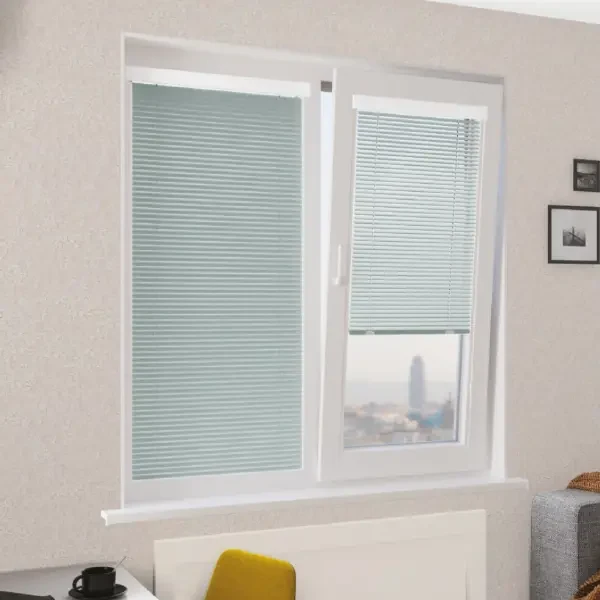
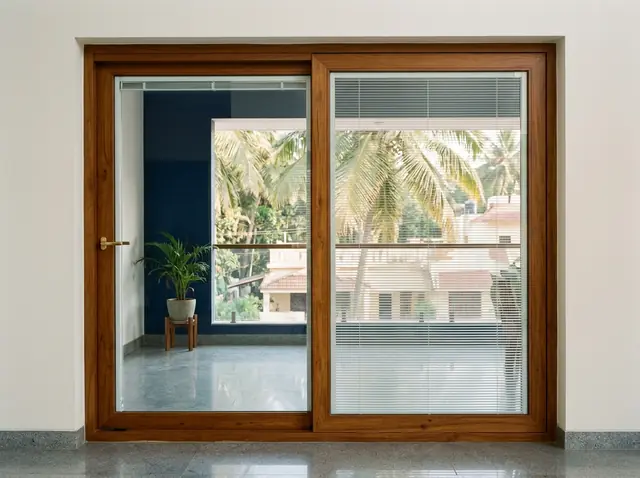
Blinds page: real pictures for insulated, measuring and the visit section
Replaces the stock-looking insulated glass picture, puts a measuring
photo behind the width/height drawing, and gives the visit section its
own evening room instead of reusing the top picture.

diff --git a/src/pages/BlindsPage.jsx b/src/pages/BlindsPage.jsx
@@ -266,7 +266,10 @@ function Measure() {
           <ul className="list-none p-0 m-0 grid sm:grid-cols-3 gap-6">{steps.map(([t, d]) => <li key={t} className="rise rail pt-3"><h3 className="font-semibold text-lg mb-1">{t}</h3><p className="text-[1rem] leading-relaxed">{d}</p></li>)}</ul>
           <p className="rise text-[1.0625rem] leading-relaxed mt-8">Your figure is only for the rough price. We measure again at your home before the final price.</p>
         </div>
-        <div className="rise lg:col-span-5 bg-white border-[3px] border-navy p-6 lg:p-10"><MeasureDiagram /></div>
+        <div className="rise lg:col-span-5 relative pb-16 sm:pb-20">
+          <Pic id="measure" alt="A tape measure, pencil and notepad on a granite window sill under a linen Roman blind" sizes="(min-width: 1024px) 40vw, 100vw" full={1376} className="block w-full aspect-[4/3] object-cover" />
+          <div className="absolute left-0 bottom-0 w-[58%] sm:w-[48%] lg:w-[58%] bg-white border-[3px] border-navy p-3 sm:p-4"><MeasureDiagram /></div>
+        </div>
       </div>
     </section>
   );
@@ -338,7 +341,7 @@ function Visit() {
   ];
   return (
     <section id="visit" className="relative bg-navy text-white">
-      <div className="absolute inset-0 pane-photo"><Pic id="hero" alt="" sizes="100vw" full={1376} /></div>
+      <div className="absolute inset-0 pane-photo"><Pic id="evening" alt="" sizes="100vw" full={1376} /></div>
       <div className="absolute inset-0 bg-navy/80" />
       <div className="relative max-w-[1440px] mx-auto px-4 lg:px-10 py-24 lg:py-32 grid lg:grid-cols-12 gap-x-12 gap-y-12">
         <div className="lg:col-span-6">
